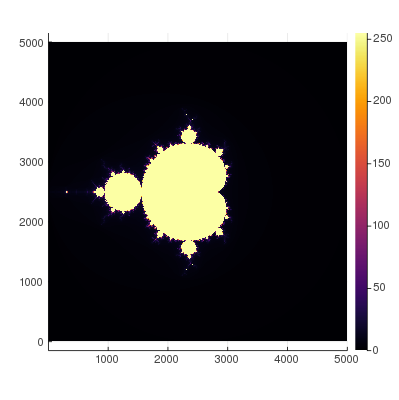
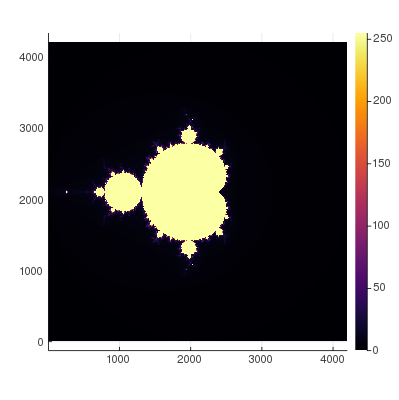
franklin-update

diff --git a/__site/benchmark/juliabench/index.html b/__site/benchmark/juliabench/index.html
@@ -20,7 +20,7 @@
     }
   </style>
    <title>Implement more Julian</title>  
-    <!-- PLOTLY -->
+  <!-- PLOTLY -->
   
 </head>
 <body>
@@ -85,7 +85,7 @@ end
 
 function main()
     s = time()
-    M = N = 5000
+    M = N = 4200
     grid = mand(M,N)
     t = time()
     @show(t - s)
@@ -96,15 +96,15 @@ main()
 
 using BenchmarkTools
 @btime mand(5000, 5000);</code></pre>
-<pre><code class="plaintext">t - s = 1.9206359386444092
-  1.916 s (2 allocations: 23.84 MiB)
+<pre><code class="plaintext">t - s = 1.3314588069915771
+  1.868 s (2 allocations: 23.84 MiB)
 </code></pre>
 <div class="remark"><span class="katex"><span class="katex-mathml"><math xmlns="http://www.w3.org/1998/Math/MathML"><semantics><mrow><mtext> </mtext></mrow><annotation encoding="application/x-tex">\ </annotation></semantics></math></span><span class="katex-html" aria-hidden="true"><span class="base"><span class="strut" style="height:0em;vertical-align:0em;"></span><span class="mspace"> </span></span></span></span> <br /> 点の位置をあらわす <code>&#40;4.0 / &#40;M - 1&#41; * &#40;j - 1&#41; - 2.0&#41;</code> は <code>range&#40;-2, 2, length&#40;N&#41;&#41;</code> と数学的に等価ですが，数値の誤差の関係で結果が若干異なることがあります．</div><code>&#40;4.0 / &#40;M - 1&#41; * &#40;j - 1&#41; - 2.0&#41;</code> は <code>range&#40;-2, 2, length&#40;N&#41;&#41;</code> と数学的に等価ですが，数値の誤差の関係で結果が若干異なることがあります． &#125;</p>
 <pre><code class="language-julia">N=10; @show [4.0*(i-1)/(N-1) - 2.0 for i in 1:N]</code></pre>
 <pre><code class="plaintext">[(4.0 * (i - 1)) / (N - 1) - 2.0 for i = 1:N] = [-2.0, -1.5555555555555556, -1.1111111111111112, -0.6666666666666667, -0.22222222222222232, 0.22222222222222232, 0.6666666666666665, 1.1111111111111112, 1.5555555555555554, 2.0]
 </code></pre>
 <pre><code class="language-julia">N=10; @show collect(range(-2,2,length=N))</code></pre>
-<pre><code class="plaintext">collect(range(-2, 2, length=N)) = [-2.0, -1.5555555555555556, -1.1111111111111112, -0.6666666666666666, -0.2222222222222222, 0.2222222222222222, 0.6666666666666666, 1.1111111111111112, 1.5555555555555556, 2.0]
+<pre><code class="plaintext">collect(range(-2, 2, length = N)) = [-2.0, -1.5555555555555556, -1.1111111111111112, -0.6666666666666666, -0.2222222222222222, 0.2222222222222222, 0.6666666666666666, 1.1111111111111112, 1.5555555555555556, 2.0]
 </code></pre>
 <pre><code class="language-julia">Tarpath="/tmp/resultJ.txt"
 using Plots
@@ -153,8 +153,8 @@ main()
 
 using BenchmarkTools
 @btime mand(5000, 5000);</code></pre>
-<pre><code class="plaintext">t - s = 1.9576940536499023
-  1.960 s (2 allocations: 23.84 MiB)
+<pre><code class="plaintext">t - s = 1.9321579933166504
+  1.920 s (2 allocations: 23.84 MiB)
 </code></pre>
 <pre><code class="language-julia">Refpath="/tmp/resultJ.txt"
 Tarpath="/tmp/resultJ1.txt"
@@ -204,8 +204,8 @@ main()
 
 using BenchmarkTools
 @btime mand(5000, 5000);</code></pre>
-<pre><code class="plaintext">t - s = 1.9827699661254883
-  1.983 s (4 allocations: 47.68 MiB)
+<pre><code class="plaintext">t - s = 1.907627820968628
+  1.894 s (4 allocations: 47.68 MiB)
 </code></pre>
 <pre><code class="language-julia">Refpath="/tmp/resultJ1.txt"
 Tarpath="/tmp/resultJ2.txt"
@@ -261,23 +261,25 @@ main()
 
 using BenchmarkTools
 @btime mand(5000, 5000);</code></pre>
-<pre><code class="plaintext">t - s = 2.0572690963745117
-  2.023 s (11 allocations: 23.84 MiB)
+<pre><code class="plaintext">t - s = 1.9778149127960205
+  1.943 s (10 allocations: 23.84 MiB)
 </code></pre>
 <pre><code class="language-julia">Refpath="/tmp/resultJ1.txt"
 Tarpath="/tmp/resultJ3.txt"
 run(`bash -c "cmp --silent $Refpath $Tarpath || echo \"files are different\""`)
 
 using Plots
+
 using DelimitedFiles
 img = readdlm(Tarpath, ',', Int)
 M,N = img |> size
-p = heatmap(1:N, 1:M, img,aspect_ratio=1, size=(400, 400))</code></pre>
+p = heatmap(1:N, 1:M, img,aspect_ratio=1, size=(400, 400))
+savefig(p, joinpath(@OUTPUT, "mandJ3.png"))</code></pre>
 
 <img src="/MathWebiner.jl/assets/benchmark/juliabench/code/output/mandJ3.png" alt="">
 <div class="page-foot">
   <div class="copyright">
-    &copy; SatoshiTerasaki. Last modified: March 21, 2020. Website built with <a href="https://github.com/tlienart/Franklin.jl">Franklin.jl</a>.
+    &copy; SatoshiTerasaki. Last modified: April 06, 2020. Website built with <a href="https://github.com/tlienart/Franklin.jl">Franklin.jl</a>.
   </div>
 </div>
 

diff --git a/__site/benchmark/benchmark/index.html b/__site/benchmark/benchmark/index.html
@@ -20,7 +20,7 @@
     }
   </style>
    <title>How fast is Julia language?</title>  
-    <!-- PLOTLY -->
+  <!-- PLOTLY -->
    <script src="/MathWebiner.jl/libs/plotly/plotly.min.js"></script> 
 </head>
 <body>
@@ -127,6 +127,7 @@ int main&#40;&#41;
 </code></pre>
 <p>描画は下記のとおりです。</p>
 <pre><code class="language-julia">using DelimitedFiles
+using Plots
 img = readdlm("/tmp/benchC.txt",',',Int)
 M,N = img |> size
 p=heatmap(1:N, 1:M, img, aspect_ratio=1, size=(400,400))</code></pre>
@@ -249,8 +250,8 @@ main()
 
 using BenchmarkTools
 @btime mand(2500, 2500);</code></pre>
-<pre><code class="plaintext">t - s = 0.47660088539123535
-  476.288 ms (2 allocations: 5.96 MiB)
+<pre><code class="plaintext">t - s = 0.46416187286376953
+  458.478 ms (2 allocations: 5.96 MiB)
 </code></pre>
 <pre><code class="language-julia">Refpath="/tmp/benchC.txt"
 Tarpath="/tmp/benchJ.txt"
@@ -261,11 +262,12 @@ using DelimitedFiles
 img = readdlm(Tarpath,',',Int)
 M,N = img |> size
 p = heatmap(1:N,1:M,img,aspect_ratio=1, size=(400, 400))</code></pre>
-
+<pre><code class="plaintext">files are different
+</code></pre>
 <img src="/MathWebiner.jl/assets/benchmark/benchmark/code/output/mandJ.png" alt="">
 <div class="page-foot">
   <div class="copyright">
-    &copy; SatoshiTerasaki. Last modified: March 21, 2020. Website built with <a href="https://github.com/tlienart/Franklin.jl">Franklin.jl</a>.
+    &copy; SatoshiTerasaki. Last modified: April 06, 2020. Website built with <a href="https://github.com/tlienart/Franklin.jl">Franklin.jl</a>.
   </div>
 </div>
 

diff --git a/__site/animation/index.html b/__site/animation/index.html
@@ -20,7 +20,7 @@
     }
   </style>
    <title>Animation</title>  
-    <!-- PLOTLY -->
+  <!-- PLOTLY -->
   
 </head>
 <body>
@@ -62,7 +62,7 @@
     n = length(x)
     inds = circshift(1:n, 1 - i)
     linewidth --> range(0, 10, length = n)
-    alpha --> range(0, 1, length = n)
+    seriesalpha --> range(0, 1, length = n)
     aspect_ratio --> 1
     label --> false
     x[inds], y[inds]
@@ -78,7 +78,7 @@ end when i > 40 && mod1(i, 10) == 5</code></pre>
 <img src="/MathWebiner.jl/assets/animation/code/output/granim.gif" alt="">
 <div class="page-foot">
   <div class="copyright">
-    &copy; SatoshiTerasaki. Last modified: March 15, 2020. Website built with <a href="https://github.com/tlienart/Franklin.jl">Franklin.jl</a>.
+    &copy; SatoshiTerasaki. Last modified: April 06, 2020. Website built with <a href="https://github.com/tlienart/Franklin.jl">Franklin.jl</a>.
   </div>
 </div>
 

diff --git a/__site/plotlyjs1/index.html b/__site/plotlyjs1/index.html
@@ -20,7 +20,7 @@
     }
   </style>
    <title>PlotlyJS Example1</title>  
-    <!-- PLOTLY -->
+  <!-- PLOTLY -->
    <script src="/MathWebiner.jl/libs/plotly/plotly.min.js"></script> 
 </head>
 <body>

diff --git a/__site/plotlyjs2/index.html b/__site/plotlyjs2/index.html
@@ -20,7 +20,7 @@
     }
   </style>
    <title>PlotlyJS Example2</title>  
-    <!-- PLOTLY -->
+  <!-- PLOTLY -->
    <script src="/MathWebiner.jl/libs/plotly/plotly.min.js"></script> 
 </head>
 <body>

diff --git a/__site/benchmark/pythonbench/index.html b/__site/benchmark/pythonbench/index.html
@@ -20,7 +20,7 @@
     }
   </style>
    <title>Implement more Pythonic</title>  
-    <!-- PLOTLY -->
+  <!-- PLOTLY -->
   
 </head>
 <body>

diff --git a/__site/index.html b/__site/index.html
@@ -20,7 +20,7 @@
     }
   </style>
    <title>ようこそ</title>  
-    <!-- PLOTLY -->
+  <!-- PLOTLY -->
   
 </head>
 <body>
